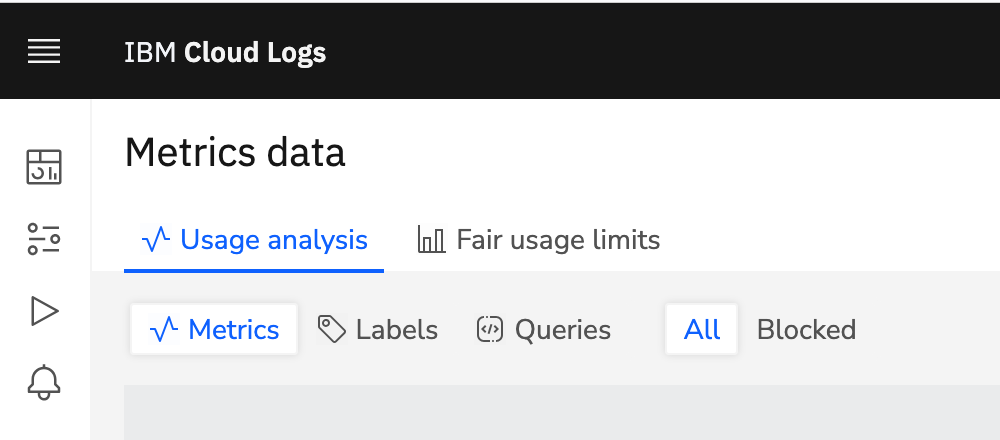
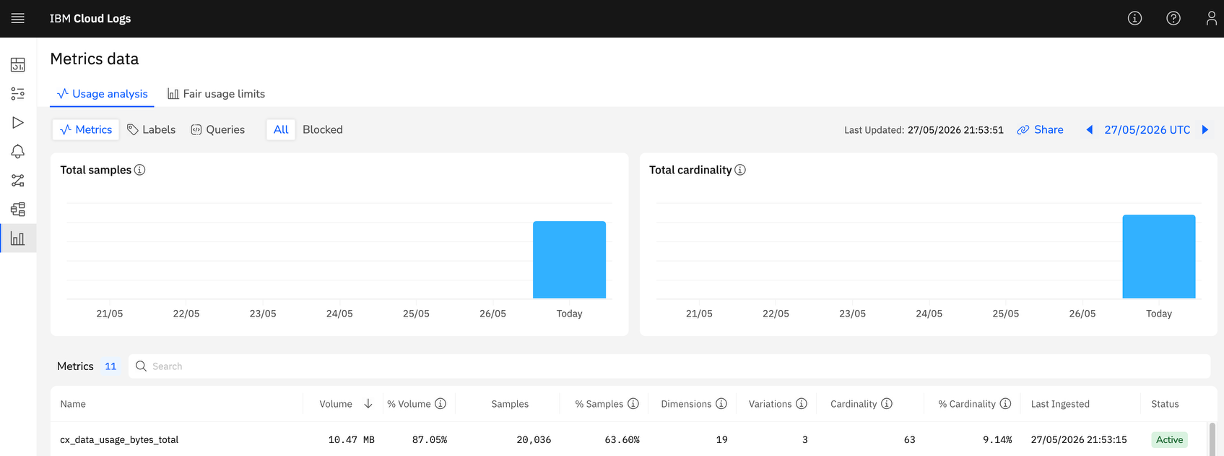
Update: 27-05-2026

diff --git a/metrics-explorer-r114.md b/metrics-explorer-r114.md
@@ -13,14 +13,17 @@ subcollection: cloud-logs
 {{site.data.keyword.attribute-definition-list}}
 
 
-# Working with the Metrics explorer
+# Working with the Metrics Data explorer
 {: #metrics-explorer-r114}
 
-In {{site.data.keyword.logs_full_notm}}, you can use the **Metrics explorer** to gain insights into metrics, volumes, cardinality and dimensions. For example, you can use the Metrics explorer page to identify which label values contribute most to a metric's cardinality. While other views show the total number of time series or label combinations, this tab allows you to drill down further and see how individual label values affect the number of generated series.
+In {{site.data.keyword.logs_full_notm}}, you can use the **Metrics Data explorer** to identify high-volume or high-cardinality metrics, understand ingestion patterns, detect inefficient time series, and optimize the data pipeline. You can drill down further and see how individual label values affect the number of generated series.
+{: shortdesc}
 
 For example, by understanding which values generate the most series, you can decide whether to adjust label usage, remove unnecessary dimensions, or change metric design.
 
-In the Metrics Explorer, you can only analyze one day at a time, not a range of days.
+The Metrics Data explorer works with pre-aggregated statistics that are updated from the ingestion pipeline. Variations, labels, and trends reflect real-time ingestion data.
+
+In the Metrics Data explorer, you can only analyze one day at a time, not a range of days.
 {: note}
 
 
@@ -31,20 +34,20 @@ To configure this feature, you must attach a metrics bucket to your {{site.data.
 {: attention}
 
 
-## Launching the Metrics Explorer
+## Launching the Metrics Data Usage explorer
 {: #metrics-explorer-r114-launch}
 
 Complete the following steps:
 
 1. Navigate to your {{site.data.keyword.logs_full_notm}} instance: **Observability** > **Logging** > **Cloud Logs** > *Your Service Instance* > **Open Dashboard**.
 
-2. Select the **Usage** icon ![Usage icon](/icons/usage.svg "Usage") > **Metrics Usage**.
+2. Select the **Usage** icon ![Usage icon](/icons/usage.svg "Usage") > **Metrics Data**.
 
-    The *Metrics Usage* page opens.
+    The *Metrics Data* page opens.
 
-    ![Metrics Usage explorer](/images/metrics-usage-explorer.png "Metrics Usage explorer"){: caption="Metrics Usage explorer" caption-side="bottom"}
+    ![Metrics Data Usage analysis](/images/metrics-usage-explorer.png "Metrics Data Usage analysis"){: caption="Metrics Data Usage analysis" caption-side="bottom"}
 
-3.  Use the sub-tabs to explore metrics, labels, queries, and blicked metrics.
+3.  In the *Usage Analysis* tab, use the sub-tabs to explore metrics, labels, queries, and blocked metrics.
 
     Select **Metrics** to visualize ingested metrics including usage, cardinality, and samples.
 
@@ -54,85 +57,91 @@ Complete the following steps:
 
     Select **Blocked** to see metrics that are blocked from ingestion.
 
+## Launching the Metrics Data Fair Usage limits
+{: #metrics-explorer-r114-launch-fairusage}
+
+Complete the following steps:
+
+1. Navigate to your {{site.data.keyword.logs_full_notm}} instance: **Observability** > **Logging** > **Cloud Logs** > *Your Service Instance* > **Open Dashboard**.
+
+2. Select the **Usage** icon ![Usage icon](/icons/usage.svg "Usage") > **Metrics Data**.
+
+    The *Metrics Data > Fair usage limits* page opens.
+
+3.  In the *Fair Usage Limits* tab, check information about the metrics limits, the ingestion limits, and the query limits.
 
 
-## Exploring the Usage analysis tab
+## Exploring the Usage Analysis tab
 {: #metrics-explorer-r114-1}
 
 ### Metrics view
 {: #metrics-explorer-r114-1-metrics}
+
+Select the **Metrics** tab in the *Usage Analysis* page.
 
 Use this view to detect metrics that are heavily influenced by the chosen label or that have excessive label variations.
 {: note}
 
 At the top-level, you can find charts that summarize metrics ingestion and trends for the selected time range. Use these charts to understand how your metric volume and cardinality change over time:
 
-- The *Total samples chart* shows how many metric data points are ingested.
+- The *Total samples* chart that shows the metric data points that are ingested in the selected time range.
 
     Use this chart to spot ingestion spikes or drops that might indicate deployment issues, misconfigured scrapers, or unexpected increases in data volume.
 
-- The *Total cardinality chart* shows how many unique time series are generated.
+- The *Total Cardinality* chart shows unique time series in the selected time range.
 
     Use this chart to detect sudden growth in time-series count, often caused by new labels, unexpected label values, or high-cardinality dimensions such as pod_name or operation.
 
 These charts help you correlate ingestion patterns, identify high-impact changes quickly, and prioritize where to reduce cardinality or remove unnecessary variations.
 
-
-The Metrics view shows how the selected label is used across different metrics.
-
-For each metric, you can view the following information:
-* In the **Usage** column,  you can see the data volume attributed to the label.
-* In the **% Usage** column, you can see the relative share of total usage.
+The Metrics view shows how the selected label is used across different metrics. For each metric, you can view the following information:
+* In the **Volume** column, you can see the volume of metrics.
+* In the **% Volume** column, you can see the fraction of total metrics volume.
 * In the **Samples** column, you can see the number of data points collected.
-* In the **Dimensions** column, you can see the unique label keys.
-* In the **Variations** column, you can see the unique combinations of label keys.
-* In the **Cardinality** column, you can see the unique time series per metric.
-* In the **% Cardinality** column, you can see the share of total series cardinality.
+* In the **% Samples** column, you can see the fraction of data points collected.
+* In the **Dimensions** column, you can see the count of unique label names.
+* In the **Variations** column, you can see the count of unique variations. A variation represents the unique label combinations for a metric.
+* In the **Cardinality** column, you can see the count of unique time series.
+* In the **% Cardinality** column, you can see the fraction of total series cardinality.
 * In the **Last Ingested** column, you can see the timestamp of the latest ingestion for that metric.
 * In the **Status** column, you can see whether the metric is active or disabled.
 * In the **Action** column, you can see whether the metric is blocked.
+
+When you click on a metric, a page opens with detailed information about the metric.
+
+![Metrics view](/images/metrics-view.png "Metrics view"){: caption="Metrics view" caption-side="bottom"}
+
 
 
 ### Labels view
 {: #metrics-explorer-r114-1-labels}
 
-Use this view to understand which metrics and label values drive data volume and cardinality.
+Select the **Labels** tab in the *Usage Analysis* page.
+
+Use this view to analyze how a specific label contributes to metric usage, variation, and value diversity.
 {: note}
 
-The Labels tab analyzes label-level impact on storage and cardinality. Use it to analyze how a specific label contributes to metric usage, variation, and value diversity.
+You can use the Labels tab to analyze label-level impact on storage and cardinality, for example:
+* List all labels attached to the metric
+* Show each label's usage, cardinality, and unique value count
+* Highlight labels driving high series counts
 
-* Lists all labels attached to the metric
-* Shows each label's usage, cardinality, and unique value count
-* Highlights labels driving high series counts
-
-Watch for labels with many unique values such as pod_name or operation; they often inflate cost.
+Watch for labels with many unique values such as pod_name or operation. They often inflate cost.
 {: note}
 
-- You can select a label to display the available values for that label.
+- You can select a label to display detailed information such as the metrics that have that label.
 
-    Select a label associated with the metric. The label selector lists all labels detected for the metric. Once selected, the interface displays the available values for that label.
+- If you select **Live values**, you can see the list of values identified for the chosen label in the selected time range.
 
-- You can select 1 or more label values to compare how different values contribute to the total number of time series.
-
-    Select one or more label values to analyze.
-
-    The values panel displays the values associated with the selected label.
-
-    You can select up to 40 values at a time.
-
-- You can review the cardinality table to compare values and identify which ones generate the most time series. This helps determine whether specific label values are responsible for cardinality growth and where to focus optimization efforts.
-
-    The table displays the results for each selected value, showing:
-
-    * Value: The label value
-    * Series: The number of unique time series that are generated
-    * Samples: The number of samples associated with those time series
+- You can review the table to compare values and identify which ones generate the most variations. This helps determine whether specific label values are responsible for cardinality growth and where to focus optimization efforts.
 
 
 ### Query analyzer
 {: #metrics-explorer-r114-1-query}
 
-Use the Query Analyzer to gain insight into how metrics are used across your observability environment and explore query patterns, and track usage frequency.
+Select the **Queries** tab in the *Usage Analysis* page.
+
+Use the Query Analyzer to gain insight into how metrics are used across your environment, explore query patterns, and track usage frequency. Use it periodically to identify query patterns across different sources in one place, along with their usage and success rates, to help clean up unused metrics.
 {: note}
 
 For example, you can use the Query Analyzer to:
@@ -142,20 +151,35 @@ For example, you can use the Query Analyzer to:
 - Correlate high-usage queries with ingestion data for cost analysis.
 - Before removing a metric, verify that no critical dashboards or alerts depend on it.
 
-Use Query Usage Analyzer periodically to identify query patterns across different sources in one place, along with their usage and success rates, to help clean up unused metrics.
-
 
 Consider the following information:
 * Supports PromQL queries only.
-* Client context (for example, Dashboard, API, Alert) might not appear in all cases.
+* Location shows where a mmetric is being used and queries.
 * Can only analyze one day at a time, not a range of days.
 
 
 ![Metrics Usage explorer](/images/metrics-usage-query.png "Metrics Usage explorer"){: caption="Metrics Usage explorer" caption-side="bottom"}
 
+In this tab, you can view the following information:
+
+- `Query pattern`: Normalizes queries by replacing variable values with $var to group similar queries and reduce label noise.
+- `# Times used`: Displays the number of times each query pattern has run on the selected date.
+- `Status`: Shows success and failure percentages for query executions, helping identify errors or invalid queries.
+- `Location`: Lists the source of the query, such as a Dashboard, alerts.
+- `Date selection`: View query activity for a specific date using the date selector.
+
+You can filter query patterns by keyword or location.
+
+Consider the following information when you interpret the data:
+- When the value of `# Times used` is high, the metric is actively queried and likely important. Keep the metrics and monitor its performance.
+- When the `# Times used` is low or zero, the metric is rarely or never used. Review dashboards and alerts to confirm whether you can drop the metric.
+- When the `# Times used` for a Frequent location such as Alerts is high, the metric is operationally critical.	Prioritize retention and optimization.
+- WWhen the `# Times used` for a Frequent location such as Alerts is low, you might be able to drop this metrics. Investigate label usage and aggregation strategies.
 
 ## Exploring the Fair usage limits tab
 {: #metrics-explorer-r114-2}
+
+Select the **Metrics** tab in the *Usage Analysis* page.
 
 Use the Fair Usage Limits view to provide transparency, predictability, and control over platform usage. By defining clear thresholds, offering real-time monitoring, and providing actionable insights, this feature ensures a balanced allocation of resources while maintaining system performance and reliability.
 

diff --git a/data-usage-metrics-analyzer.md b/data-usage-metrics-analyzer.md
@@ -13,7 +13,7 @@ subcollection: cloud-logs
 {{site.data.keyword.attribute-definition-list}}
 
 
-# Working with the Metrics Usage Analyzer
+# Analyzing metrics usage
 {: #data-usage-metrics-analyzer}
 
 In {{site.data.keyword.logs_full_notm}}, you can gain insights into metrics usage through the **Data usage > Metrics Usage** tab.